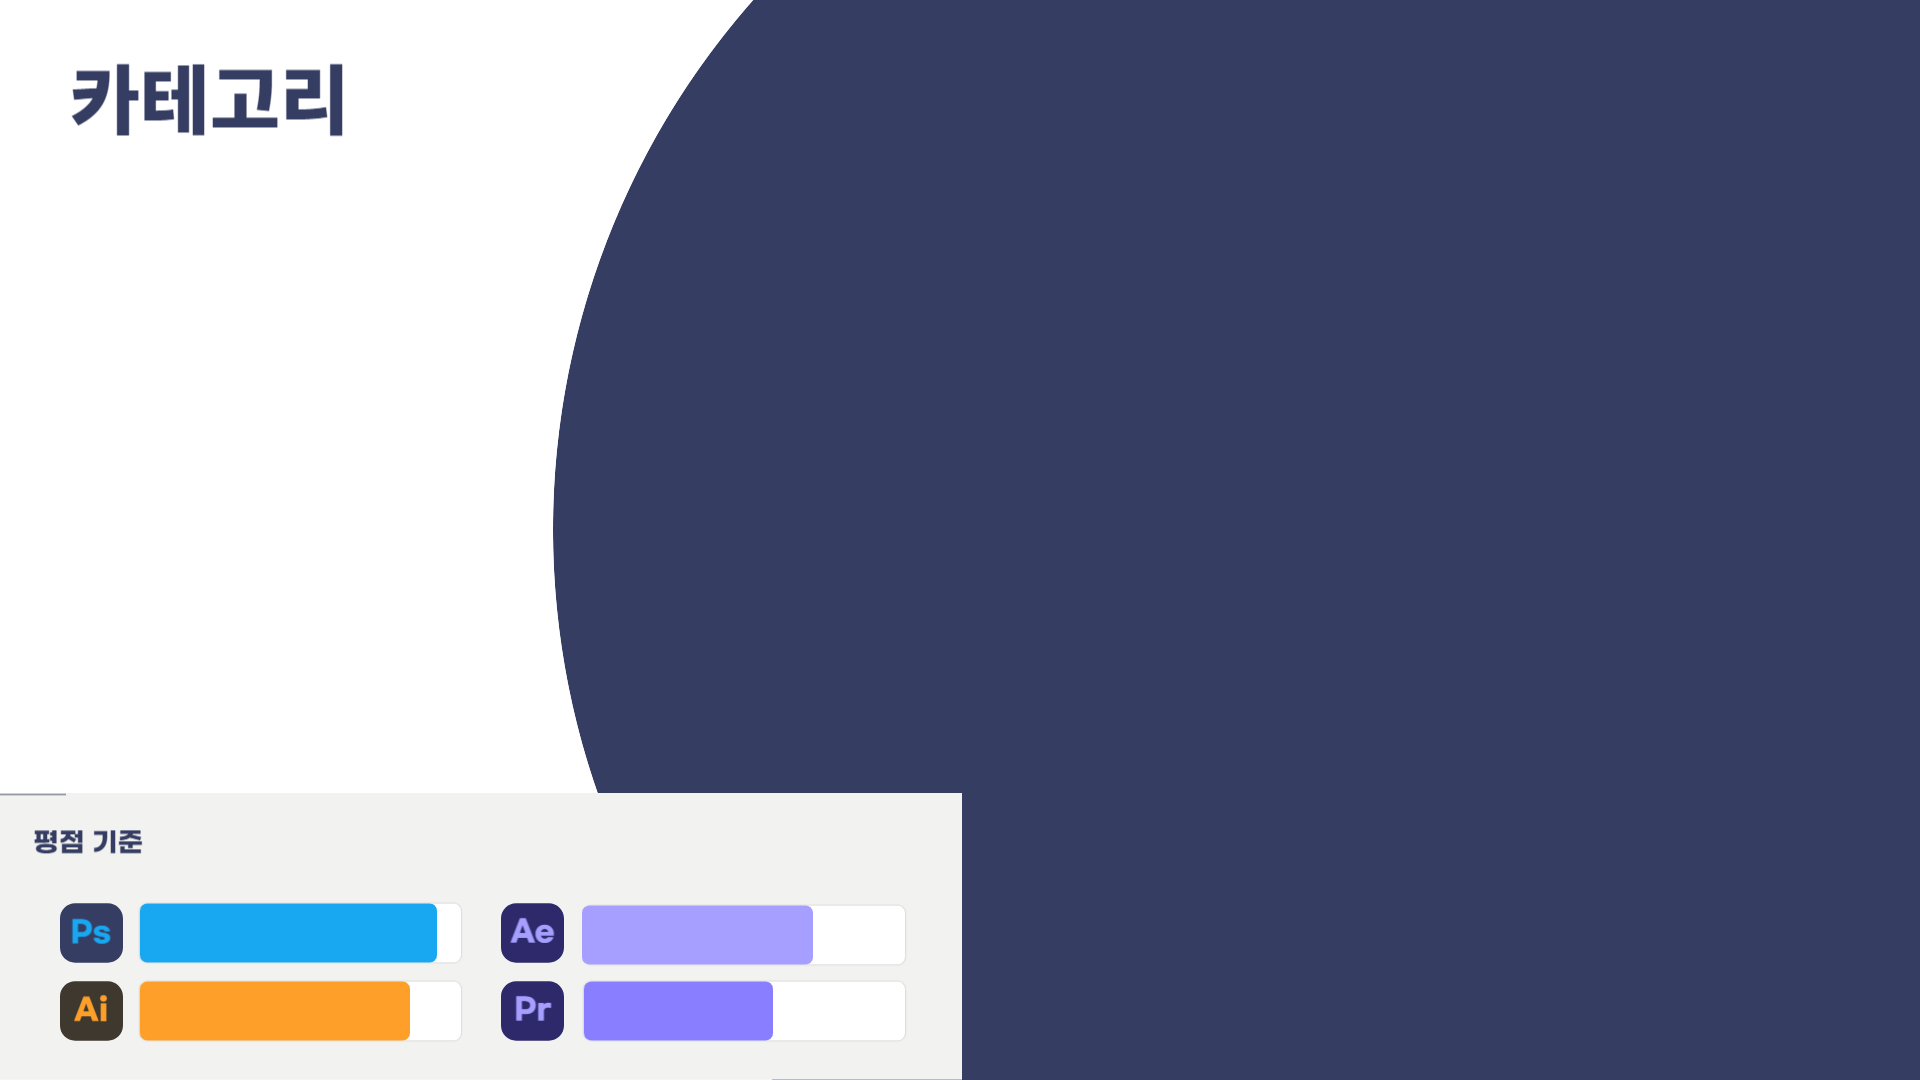
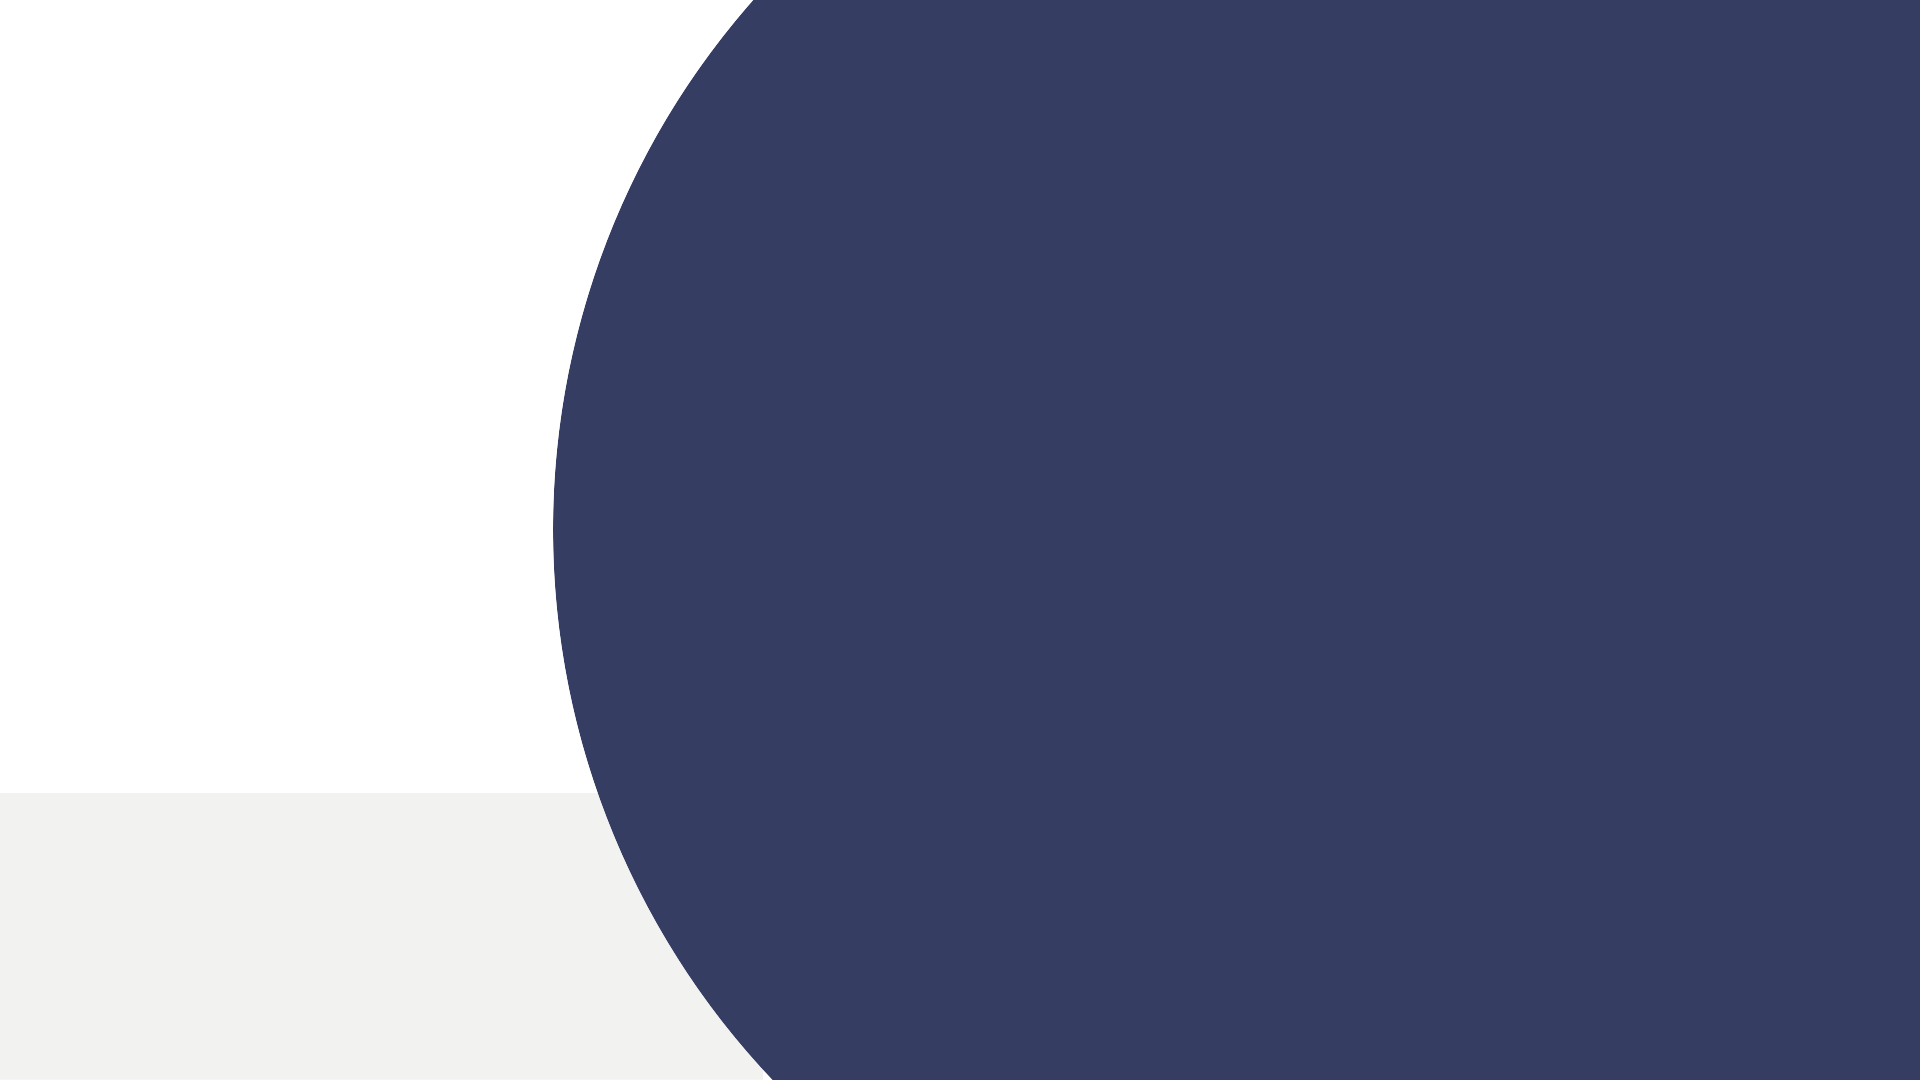
텍스트 출력 좌표 보정

Changed region(s): [[0.0312, 0.7333, 0.5, 1.0], [0.0312, 0.0611, 0.1875, 0.1222], [0.0, 0.7639, 0.0938, 0.7944]]

diff --git a/Core/CoupangAPI.py b/Core/CoupangAPI.py
@@ -35,8 +35,8 @@ class CoupangAPI(CommonAPI):
     Category = Config.ShoppingCategory
     file_path = ""
     def __init__(self):
-        self.Initialize()
-        # pass
+        # self.Initialize()
+        pass
 
     @staticmethod
     def GetInstance():
@@ -290,7 +290,7 @@ class CoupangAPI(CommonAPI):
             np_array = np.frombuffer(image_data.read(), np.uint8)
             # OpenCV로 이미지 읽기
             insert_image = cv2.imdecode(np_array, cv2.IMREAD_COLOR)
-            insert_image = cv2.resize(insert_image, (900, 900))
+            insert_image = cv2.resize(insert_image, (1000, 900))
 
             insert_height, insert_width, _ = insert_image.shape
             background_height, background_width, _ = background_image.shape
@@ -336,30 +336,53 @@ class CoupangAPI(CommonAPI):
                 # res 폴더의 부모 디렉토리로 이동하여 이미지 파일의 상대 경로 설정
                 fonts_path = os.path.join(script_dir, '..', 'fonts')
 
+                text = str(row['3'])
+                formatted_text = ''
+                word = ''
+
+                for char in text:
+                    if char == ' ':
+                        if len(word) >= 10:
+                            formatted_text += '\n'
+                        formatted_text += word + ' '
+                        word = ''
+                    else:
+                        word += char
+
+                if len(word) >= 10:
+                    formatted_text += '\n'
+                formatted_text += word
+
                 # 텍스트를 추가할 위치와 내용을 리스트로 정의
                 text_info_list = [
                     # 랭킹
                     {'text': str(row['1']) + '위',
-                     'position': (1600,50),
+                     'position': (80,360),
                      'font': os.path.join(fonts_path, 'GmarketSansTTFBold.ttf'),
-                     'font-size': 99,
-                     'font-color': 'white'
+                     'font-size': 180,
+                     'font-color': 'black'
                     },
                     # 제품명
-                    {'text': str(row['2']),
-                     'position': (1000, 800),
-                     'font': os.path.join(fonts_path, 'GmarketSansTTFMedium.ttf'),
-                     'font-size': 60,
-                     'font-color': 'white'
+                    {'text': str(row['3']),
+                     'position': (100, 620),
+                     'font': os.path.join(fonts_path, 'GmarketSansTTFBold.ttf'),
+                     'font-size': 70,
+                     'font-color': '#00FE67'
                      },
                     # 가격
-                    {'text': str(row['3']) + '원',
-                     'position': (1600, 1040),
-                     'font': os.path.join(fonts_path, 'GmarketSansTTFMedium.ttf'),
-                     'font-size': 50,
-                     'font-color': 'white'
+                    {'text': str(row['4']) + '원',
+                     'position': (100, 880),
+                     'font': os.path.join(fonts_path, 'GmarketSansTTFBold.ttf'),
+                     'font-size': 100,
+                     'font-color': '#363D62'
                      },
-
+                    # 카테고리
+                    {'text': str(row['6']) ,
+                     'position': (80, 50),
+                     'font': os.path.join(fonts_path, 'GmarketSansTTFBold.ttf'),
+                     'font-size': 110,
+                     'font-color': '#363D62'
+                     },
                 ]
 
                 # 모든 텍스트 추가

diff --git a/View/mainwindow.py b/View/mainwindow.py
@@ -47,8 +47,11 @@ class MainWindow(QMainWindow):
         # 리스트뷰의 아이템 클릭 이벤트 핸들러 연결
         self.shoppingtableView.clicked.connect(self.onTableClicked)
 
-    def IniBtnClick(self):
         self.coupang = CoupangAPI.GetInstance()
+
+    def IniBtnClick(self):
+
+        self.coupang.Initialize()
         self.Append_log("쿠팡API 초기화 완료")
         # print("쿠팡API 초기화 완료")
         pass
